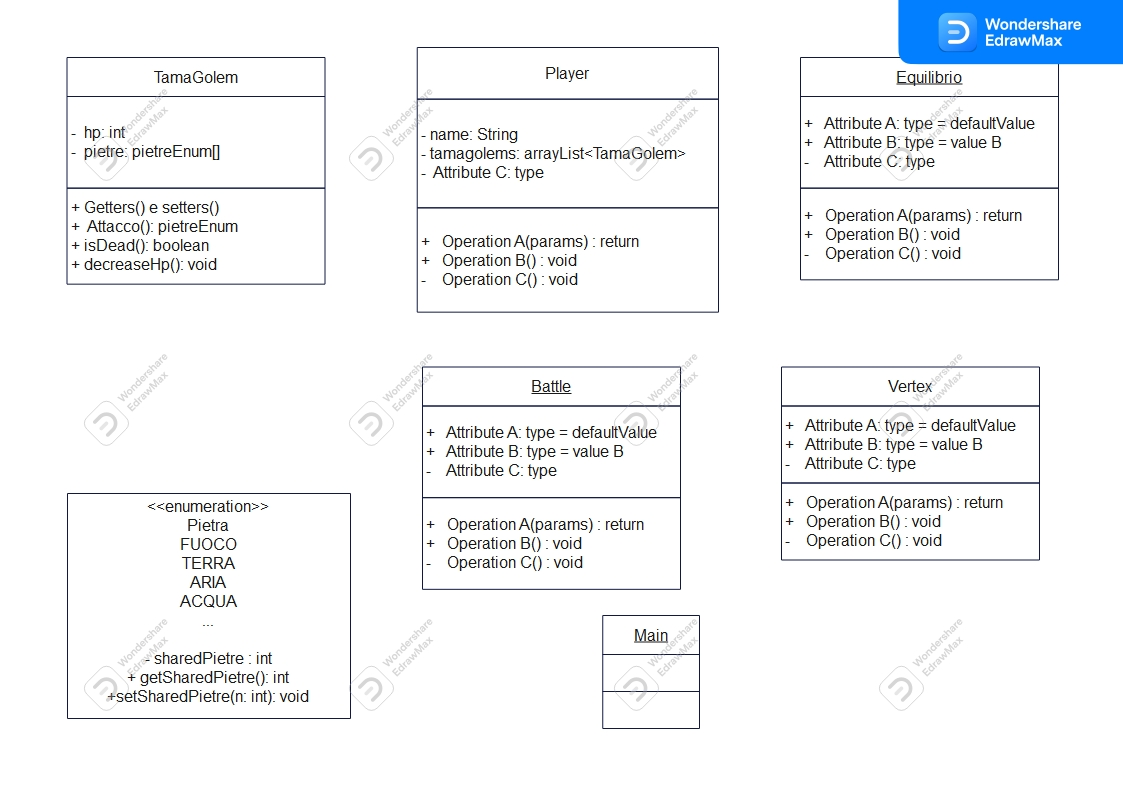
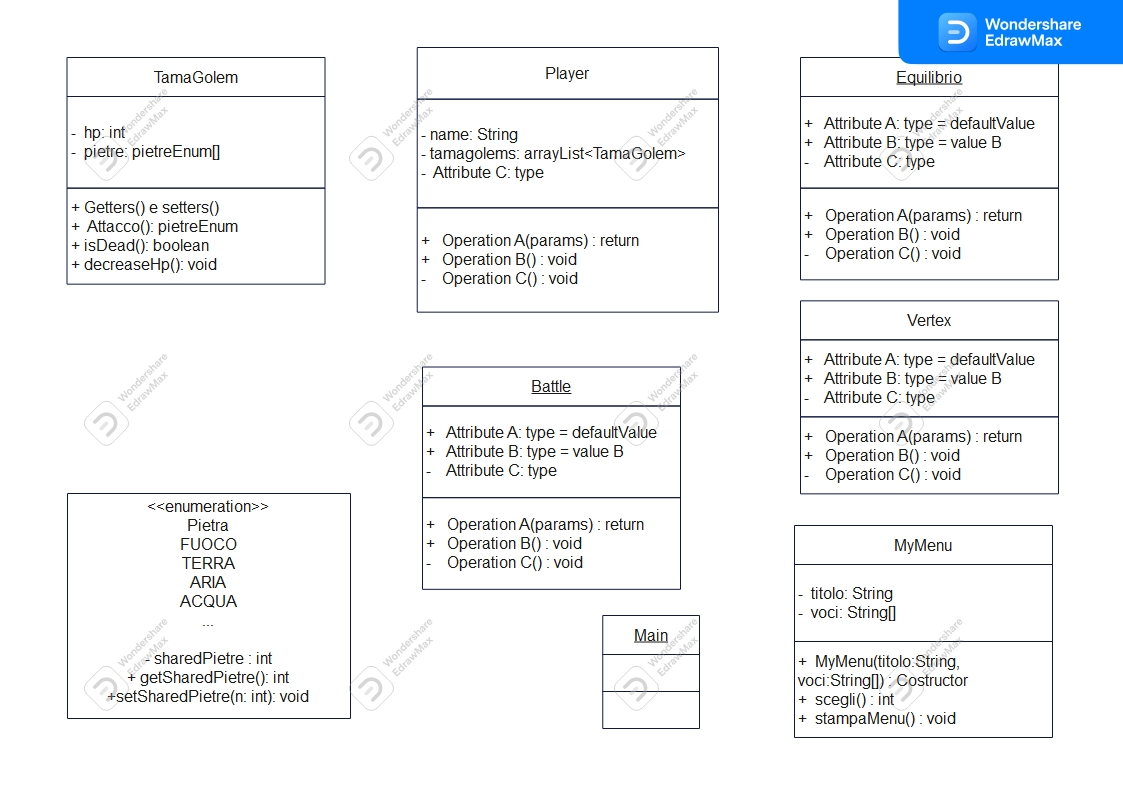
Per il meme

Changed region(s): [[0.6857, 0.3929, 0.935, 0.7859], [0.7168, 0.8161, 0.8727, 0.937], [0.374, 0.3023, 0.5298, 0.3627]]

diff --git a/TamaGolem/src/main/MyMenu.java b/TamaGolem/src/main/MyMenu.java
@@ -1,0 +1,55 @@
+package main;
+
+
+/**
+ * Questa classe rappresenta un menu testuale generico a piu' voci
+ * Si suppone che la voce per uscire sia sempre associata alla scelta 0 
+ * e sia presentata in fondo al menu
+ * @author SERINA
+ */
+
+
+
+public class MyMenu {
+	
+	final private static String CORNICE = "--------------------------------";
+	final private static String VOCE_USCITA = "0\tEsci";
+	final private static String RICHIESTA_INSERIMENTO = "Digita il numero dell'opzione desiderata > ";
+
+	private String titolo;
+	private String [] voci;
+
+	
+  	public MyMenu (String titolo, String [] voci) {
+	  	this.titolo = titolo;
+		this.voci = voci;
+  	}
+
+  	
+  	public int scegli () {
+  		stampaMenu();
+		int scelta = 0;
+		do {
+			System.out.println(RICHIESTA_INSERIMENTO);
+			// scelta = Main.LettoreStdin.nextInt(); // METTI IL TUO LETTORE
+		} while(scelta > voci.length);
+
+		return scelta;	 
+  	}
+  
+  
+		
+	public void stampaMenu () {
+	  	System.out.println(CORNICE);
+		System.out.println(titolo);
+		System.out.println(CORNICE);
+    	for (int i=0; i<voci.length; i++) {
+    		System.out.println( (i+1) + "\t" + voci[i]);
+	 	}
+    	System.out.println();
+		System.out.println(VOCE_USCITA);
+    	System.out.println();
+  	}
+		
+}
+

diff --git a/TamaGolem/src/entities/Stones.java b/TamaGolem/src/entities/Stones.java
@@ -7,10 +7,14 @@ package entities;
 
 public enum Stones {
 
-	FUOCO,
-	TERRA,
-	ARIA,
-	ACQUA;
+	RICARDO,    // Element 1: Ricardo Milos
+	JUAN,		// Element 2: Juan Dudoso el caballo loco
+	UMBERTO,	// Element 3: Vamos Umberto
+	GIGACHAD,	// Element 4: Avarage java enjoyer
+	HARAMBE,	// Element 5: Rip Harambe
+	DOGE,		// Element 6: Invest in DogeCoin
+	HASBULLA,   // Element 7: Best mma fighter 
+	ARANZULLA;  // Element 8: Our God 
 	
 	
 	private static int sharedStones = 0;   // Numero di pietre in comune ai due giocatori
